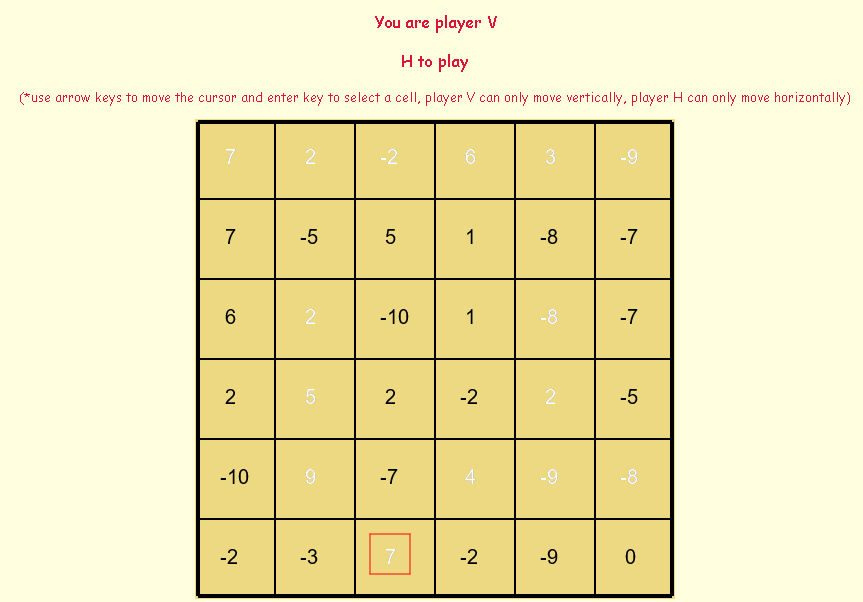
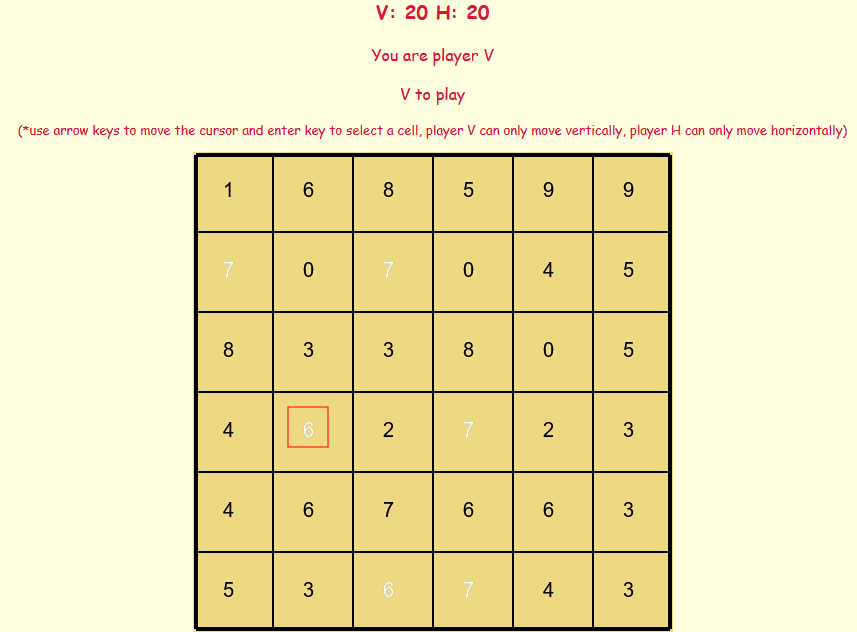
chore: improve logic for the maxit game, code cleanup, update README

diff --git a/ui/html/poc.html b/ui/html/poc.html
@@ -28,7 +28,7 @@
     <script type="text/javascript" language="javascript">
 
       var conn;
-      const homepage = "/gamesite";
+      const homepage = "/";
       const baseImageUrl = "/static/";
       var player = 2;
       const imagesname = ['white_pawn.png','black_pawn.png'];

diff --git a/ui/html/tttt.html b/ui/html/tttt.html
@@ -24,7 +24,7 @@
     <script type="text/javascript" language="javascript">
 
       var conn;
-      const homepage = "/gamesite";
+      const homepage = "/";
       const baseImageUrl = "/static/";
       var player = 0;
       const imagesname = ['xlarge.png','olarge.png']  

diff --git a/ui/html/nttt.html b/ui/html/nttt.html
@@ -27,7 +27,7 @@
     <script type="text/javascript" language="javascript">
 
       var conn;
-      const homepage = "/gamesite";
+      const homepage = "/";
       const baseImageUrl = "/static/";
       var player = 0;
       const imagesname = ['xsmall.png','osmall.png']

diff --git a/ui/html/reversi.html b/ui/html/reversi.html
@@ -29,7 +29,7 @@
     <script type="text/javascript" language="javascript">
 
       var conn;
-      const homepage = "/gamesite";
+      const homepage = "/";
       const baseImageUrl = "/static/";
       var player = 2;
       const imagesname = ['white.png','black.png']

diff --git a/ui/html/maxit.html b/ui/html/maxit.html
@@ -30,7 +30,7 @@
     <script type="text/javascript" language="javascript">
 
       var conn;
-      const homepage = "/gamesite";
+      const homepage = "/";
       const baseImageUrl = "/static/";
       var player = 2;
       //grid width and height

diff --git a/games/nttt.go b/games/nttt.go
@@ -64,11 +64,11 @@ func (nttt *NTTTGame) PerformMove(coords ...int) (int, []string) {
 func (nttt *NTTTGame) performMove(gridNumber, row, col int) (int, []string) {
 	status := nttt.checkGridStatus(gridNumber)
 	grid := nttt.grids[gridNumber]
-	fmt.Printf("NTTT gridNo: %d row: %d, col: %d\n", gridNumber, row, status)
+	// fmt.Printf("NTTT gridNo: %d row: %d, col: %d\n", gridNumber, row, status)
 	if status == IN_PROGRESS && grid[row*nttt_gridSize+col] == IN_PROGRESS {
 		grid[row*nttt_gridSize+col] = nttt.currentPlayer
-		fmt.Printf("playerNo: %d, status: %d\n", nttt.currentPlayer, nttt.checkGridStatus(gridNumber))
-		nttt.printBoard()
+		// fmt.Printf("playerNo: %d, status: %d\n", nttt.currentPlayer, nttt.checkGridStatus(gridNumber))
+		// nttt.printBoard()
 		gridStatus, gameStatus := nttt.checkStatus(gridNumber)
 		gamedata := fmt.Sprintf("%d %d %d", gridNumber, row, col)
 		if gridStatus == PLAYER1 {
@@ -78,7 +78,7 @@ func (nttt *NTTTGame) performMove(gridNumber, row, col int) (int, []string) {
 		}
 		return gameStatus, []string{gamedata}
 	}
-	fmt.Printf("playerNo: %d, status: %d\n", nttt.currentPlayer, status)
+	// fmt.Printf("playerNo: %d, status: %d\n", nttt.currentPlayer, status)
 	return -1, make([]string, 0)
 }
 
@@ -171,9 +171,9 @@ func (nttt *NTTTGame) isFull(gridNumber int) bool {
 	return true
 }
 
-func (nttt *NTTTGame) printBoard() {
-	for i := 0; i < 10; i++ {
-		fmt.Println(fmt.Sprintf("Board %d: ", i), nttt.grids[i])
-	}
+// func (nttt *NTTTGame) printBoard() {
+// 	for i := 0; i < 10; i++ {
+// 		fmt.Println(fmt.Sprintf("Board %d: ", i), nttt.grids[i])
+// 	}
 
-}
+// }

diff --git a/internal/hub.go b/internal/hub.go
@@ -1,9 +1,7 @@
 package internal
 
 import (
-	"fmt"
 	"hunaidsav/gamesite/games"
-	"log"
 	"sync"
 
 	"github.com/google/uuid"
@@ -147,16 +145,16 @@ func createRoom(gameConstructor func() games.Game, gameType string) string {
 
 	id := uuid.New().String()
 	terminateChan := make(chan bool)
-	fmt.Println("room created with id", id)
+	// fmt.Println("room created with id", id)
 
 	hubWg.Add(1)
 	room := newRoom(gameConstructor, gameType, id, terminateChan)
-	log.Println("room created")
+	// log.Println("room created")
 	rooms[id] = struct {
 		room          *Room
 		terminateChan chan bool
 	}{room, terminateChan}
-	log.Println("size of rooms: ", len(rooms))
+	// log.Println("size of rooms: ", len(rooms))
 	go room.run()
 
 	return id
@@ -173,11 +171,11 @@ func roomExists(roomId string) string {
 func createClient(roomId string, conn *websocket.Conn) bool {
 	if roomStruct, found := rooms[roomId]; found {
 		client := &Client{room: roomStruct.room, conn: conn, send: make(chan []byte)}
-		log.Println("in the hub.createClient before regestering client")
+		// log.Println("in the hub.createClient before regestering client")
 		client.room.register <- client
 		go client.readPump()
 		go client.writePump()
-		log.Println("in the hub.createClient after running off readpump and writepump")
+		// log.Println("in the hub.createClient after running off readpump and writepump")
 		return found
 	} else {
 		return found

diff --git a/games/maxit.go b/games/maxit.go
@@ -4,11 +4,10 @@ import (
 	"fmt"
 	"math/rand"
 	"strconv"
-	"time"
 )
 
 const (
-	MIN            = -10
+	MIN            = 0
 	MAX            = 10
 	maxit_gridSize = 6
 )
@@ -27,9 +26,9 @@ type cell struct {
 	status, value int
 }
 
-func init() {
-	rand.Seed(time.Now().Unix())
-}
+// func init() {
+// 	rand.Seed(time.Now().Unix())
+// }
 
 func randInt() int {
 	return MIN + rand.Intn(MAX-MIN)
@@ -129,9 +128,9 @@ func (maxit *MaxitGame) getStatus(row, col int) (int, int) {
 			player2Moves += 1
 		}
 	}
-	fmt.Println("player1Moves:", player1Moves, "player2Moves:", player2Moves)
+	// fmt.Println("player1Moves:", player1Moves, "player2Moves:", player2Moves)
 	if player1Moves == 0 && player2Moves == 0 {
-		fmt.Println("both players have no moves")
+		// fmt.Println("both players have no moves")
 		if maxit.scores[0] > maxit.scores[1] {
 			status = PLAYER1
 		} else if maxit.scores[0] < maxit.scores[1] {
@@ -141,10 +140,10 @@ func (maxit *MaxitGame) getStatus(row, col int) (int, int) {
 		}
 		nextPlayer = -1
 	} else if player1Moves == 0 {
-		fmt.Println("player1 has no moves")
+		// fmt.Println("player1 has no moves")
 		nextPlayer = PLAYER2
 	} else if player2Moves == 0 {
-		fmt.Println("player2 has no moves")
+		// fmt.Println("player2 has no moves")
 		nextPlayer = PLAYER1
 	} else {
 		if maxit.currentPlayer == PLAYER1 {

diff --git a/games/tttt.go b/games/tttt.go
@@ -72,8 +72,8 @@ func (tttt *TTTTGame) performMove(gridNumber, row, col int) (int, []string) {
 	grid := tttt.grids[gridNumber]
 	if status == IN_PROGRESS && grid[row*tttt_gridSize+col] == IN_PROGRESS {
 		grid[row*tttt_gridSize+col] = tttt.currentPlayer
-		fmt.Printf("playerNo: %d, status: %d\n", tttt.currentPlayer, tttt.checkGridStatus(gridNumber))
-		tttt.printBoard()
+		// fmt.Printf("playerNo: %d, status: %d\n", tttt.currentPlayer, tttt.checkGridStatus(gridNumber))
+		// tttt.printBoard()
 		gridStatus, gameStatus := tttt.checkStatus(gridNumber)
 
 		gamedata := fmt.Sprintf("%d %d %d", gridNumber, row, col)
@@ -85,7 +85,7 @@ func (tttt *TTTTGame) performMove(gridNumber, row, col int) (int, []string) {
 
 		return gameStatus, []string{gamedata}
 	}
-	fmt.Printf("playerNo: %d, status: %d\n", tttt.currentPlayer, status)
+	// fmt.Printf("playerNo: %d, status: %d\n", tttt.currentPlayer, status)
 
 	return -1, make([]string, 0)
 }
@@ -204,9 +204,9 @@ func (tttt *TTTTGame) isFull(gridNumber int) bool {
 	return true
 }
 
-func (tttt *TTTTGame) printBoard() {
-	for i := 0; i < 3; i++ {
-		fmt.Println(fmt.Sprintf("Board %d: ", i), tttt.grids[i])
-	}
+// func (tttt *TTTTGame) printBoard() {
+// 	for i := 0; i < 3; i++ {
+// 		fmt.Println(fmt.Sprintf("Board %d: ", i), tttt.grids[i])
+// 	}
 
-}
+// }

diff --git a/games/poc.go b/games/poc.go
@@ -117,7 +117,7 @@ func (poc *POC) performMove(fromRow, fromCol, toRow, toCol int) (int, []string) 
 				}
 			}
 
-			poc.printEnPassantRiskedPawns()
+			// poc.printEnPassantRiskedPawns()
 
 			return poc.gameStatus, []string{strings.Join(data, " ")}
 		}
@@ -270,12 +270,12 @@ func (poc *POC) hasMoves(player, fromRow, fromCol int) bool {
 	}
 }
 
-func (poc *POC) printEnPassantRiskedPawns() {
-	fmt.Println("printing enpassant risked pawns")
-	sb := strings.Builder{}
+// func (poc *POC) printEnPassantRiskedPawns() {
+// 	fmt.Println("printing enpassant risked pawns")
+// 	sb := strings.Builder{}
 
-	for key, _ := range poc.enPassantRiskedPawns {
-		sb.WriteString(fmt.Sprintf("%d ", key))
-	}
-	fmt.Println(sb.String())
-}
+// 	for key, _ := range poc.enPassantRiskedPawns {
+// 		sb.WriteString(fmt.Sprintf("%d ", key))
+// 	}
+// 	fmt.Println(sb.String())
+// }

diff --git a/cmd/web/routes.go b/cmd/web/routes.go
@@ -1,7 +1,6 @@
 package main
 
 import (
-	"fmt"
 	"net/http"
 
 	"github.com/go-chi/chi/v5"
@@ -13,10 +12,10 @@ func (app *Config) routes() http.Handler {
 
 	fileServer := http.StripPrefix("/static/", app.fs.FileServer())
 	r.Get("/static/*", func(w http.ResponseWriter, r *http.Request) {
-		fmt.Printf("requested url %s\n", r.URL)
+		// fmt.Printf("requested url %s\n", r.URL)
 		fileServer.ServeHTTP(w, r)
 	})
-	r.Get("/gamesite", app.serveHome)
+	r.Get("/", app.serveHome)
 	r.Get("/gamesite/create/{gametype}", app.createRoom)
 	r.Get("/gamesite/rooms/{roomId}", app.getRoom)
 	r.Get("/gamesite/rooms/{roomId}/ws", app.serveWs)

diff --git a/cmd/web/helper.go b/cmd/web/helper.go
@@ -3,7 +3,6 @@ package main
 import (
 	"bytes"
 	"encoding/json"
-	"fmt"
 	"log"
 	"net/http"
 	"os"
@@ -21,14 +20,14 @@ func initFS() stuffbin.FileSystem {
 		log.Fatalf("error reading the stuffed binary %v", err)
 	}
 
-	fmt.Println("loaded files", fs.List())
+	// fmt.Println("loaded files", fs.List())
 	_, err = fs.Get("/white.png")
 	if err != nil {
 		log.Fatalf("error reading white.png: %v", err)
 	}
-	for _, f := range fs.List() {
-		fmt.Println("\t", f)
-	}
+	// for _, f := range fs.List() {
+	// 	fmt.Println("\t", f)
+	// }
 
 	return fs
 }
